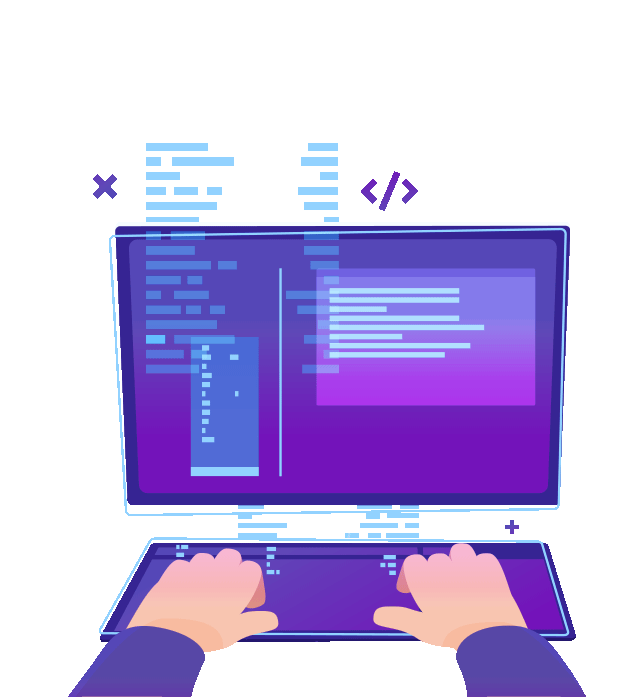
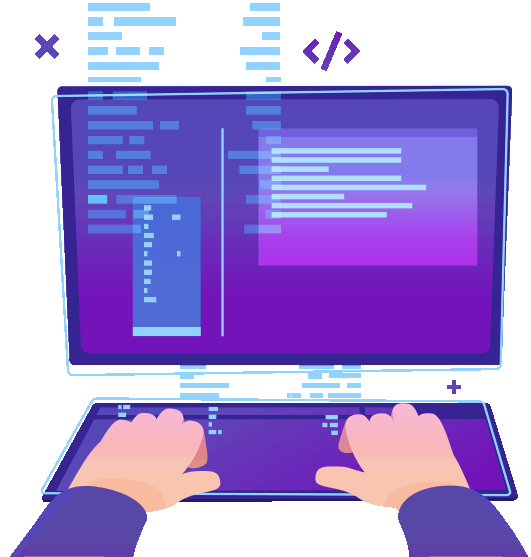
adding description to header

diff --git a/index.html b/index.html
@@ -3,7 +3,7 @@
 <head>
     <meta charset="utf-8">
     <meta name="viewport" content="width=device-width, initial-scale=1">
-    <title>Hello Bulma!</title>
+    <title>Mohammed Gehad</title>
     <link rel="stylesheet" href="https://cdnjs.cloudflare.com/ajax/libs/bulma/0.7.2/css/bulma.min.css">
     <script defer src="https://use.fontawesome.com/releases/v5.3.1/js/all.js"></script>
     <link rel="stylesheet" href="css/style.css">
@@ -67,14 +67,17 @@
     <!--nav-->
 
 
-    <div class="header">
+    <div class="header center">
         <div class="columns" style="width: 100%;">
 
-            <div class="column center header-title" style="flex-direction: column;">
+            <div class="column center header-title" style="flex-direction: column; text-align: center;">
                 <h1 class="title has-text-light">Hi ,I'm Mohammed</h1>
-                <h3 class="subtitle has-text-light">Full-Stack Developer</h3>
+                <h1 class="subtitle has-text-light is-4">Full-Stack Developer</h1>
+                <h3 class="subtitle has-text-light" style="max-width: 600px;">                
+                i'm here to help you creat your fully responsive websites
+                that look so good and feel great across the dozens of different devices in use today.</h3>
             </div>
-            <div class="column center">
+            <div class="column is-4 center">
                 <img class="header-right" src="imges/header-right.png" alt="">
             </div>
         </div>
@@ -99,38 +102,6 @@
     </div>
 
 
-
-    <section class="section is-paddingless-horizontal">
-        <div class="container grid">
-            <article class="media center">
-                <figure class="media-left ">
-                    <!-- ... -->
-                    <figure class="image is-64x64 ">
-                        <img class="is-rounded" src="https://scontent.fblr2-1.fna.fbcdn.net/v/t1.0-9/40527901_851594071713440_7978025649241587712_n.jpg?_nc_cat=111&_nc_ht=scontent.fblr2-1.fna&oh=8de23f860da6317e4deafc6aae6935da&oe=5C6F6008">
-                    </figure>
-                </figure>
-                <div class="media-content">
-                    <div class="content">
-                        <!-- ... -->
-                        <p>
-                            <strong>Mohammed Gehad</strong> <a href="">@Mohmammed_gehad</a>
-
-                            <br>
-                            <span class="has-text-grey">Self-taught, inspired to learn<br>
-                                <time datetime="2018-04-20">Apr 20</time> · 20 min read</span>
-                        </p>
-                    </div>
-                </div>
-            </article>
-        </div>
-        <div class="container grid" style="padding-top: 30px;">
-            <p class="title is-3 has-text-gray">full stack devoloper</p>
-            <p class="subtitle is-4 has-text-gray-light 
-                ">
-                i'm here to help you creat your fully responsive websites
-                that look so good and feel great across the dozens of different devices in use today,</p>
-        </div>
-    </section>
 
 </body>
 

diff --git a/css/style.css b/css/style.css
@@ -40,13 +40,16 @@
 
  .header-right {
      max-width: 400px;
+     padding: 40px;
+     padding-bottom: 0px
  }
 @media (max-width: 768px){
     
     .header-title{
-        padding-top: 60px;
+        padding-top: 35px;
+
     }
     .header-right{
-        max-width: 300px;
+        max-width: 350px;
     }
 }
